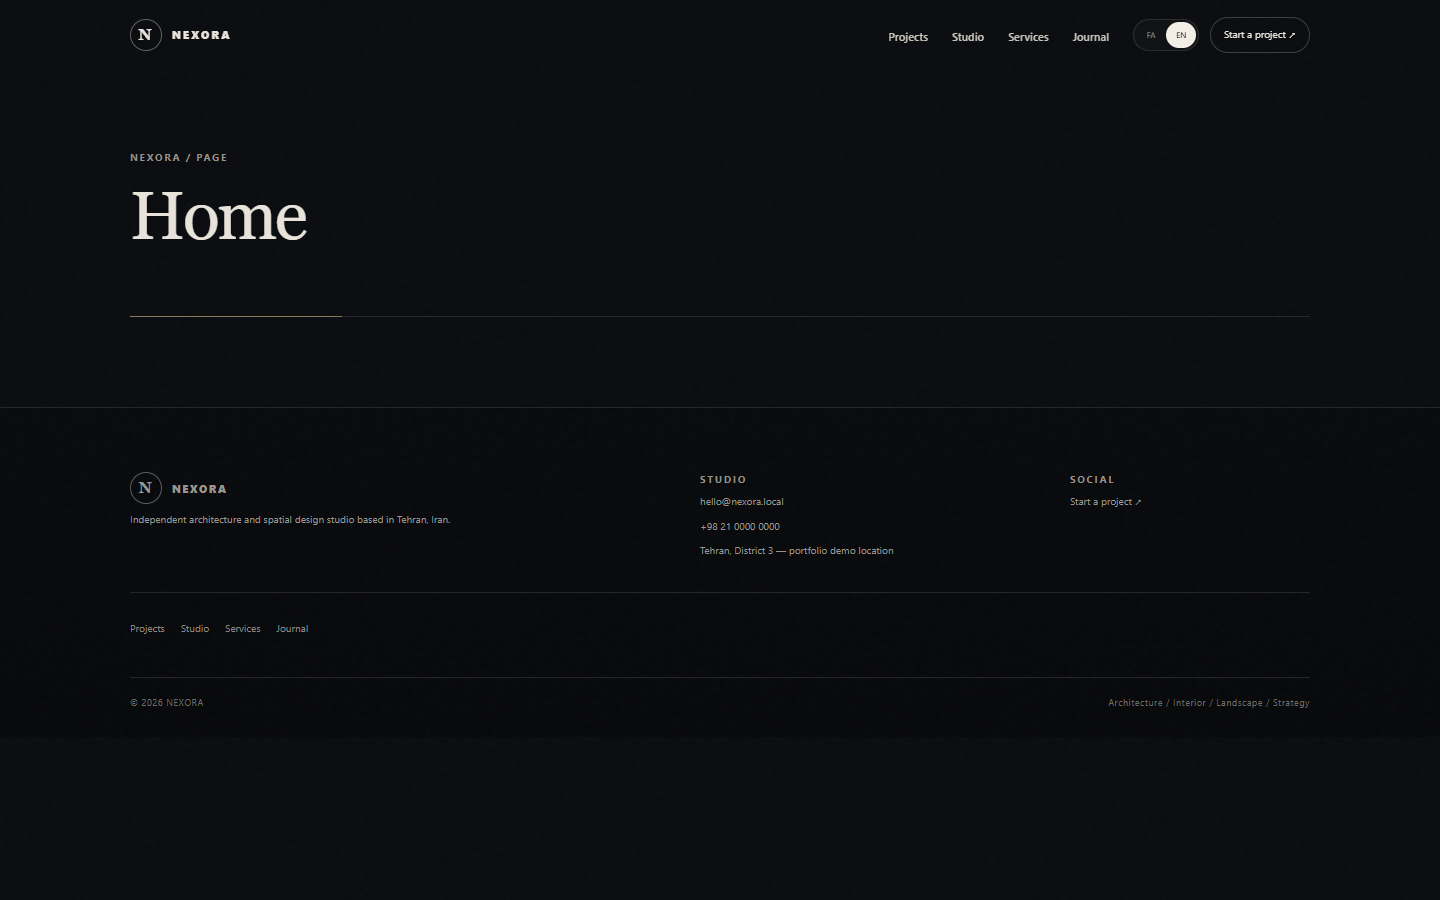
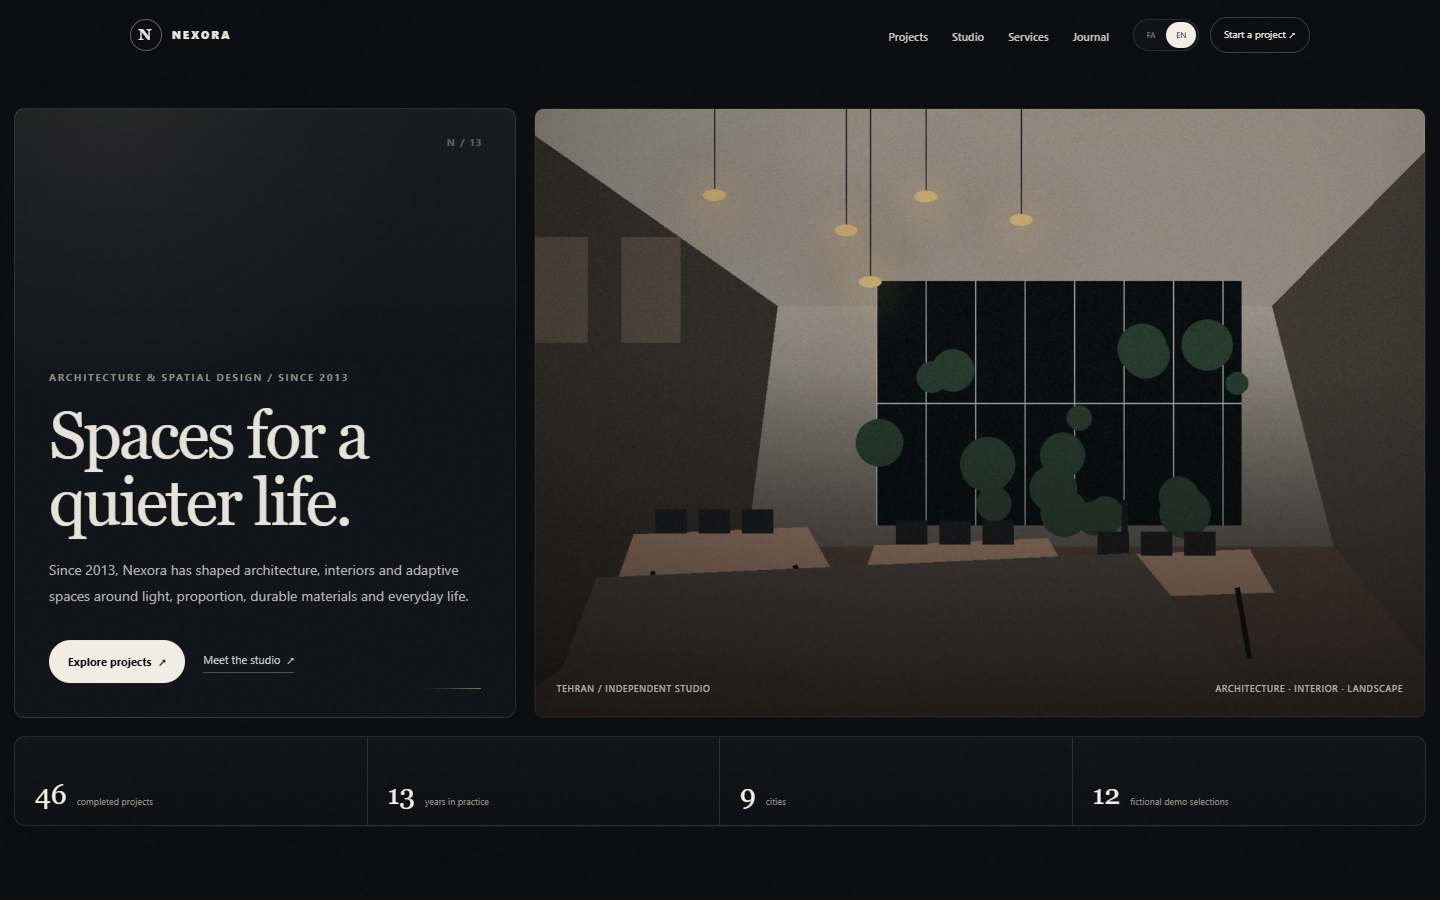
fix: improve GitHub previews and English home routing

diff --git a/scripts/showcase.js b/scripts/showcase.js
@@ -5,9 +5,9 @@ const chrome = 'C:\\Program Files\\Google\\Chrome\\Application\\chrome.exe';
 const base = 'http://localhost/nexora/';
 const pages = [
   ['fa-home-desktop.png', '?page_id=202', { width: 1440, height: 900 }],
-  ['en-home-desktop.png', '?page_id=203', { width: 1440, height: 900 }],
+  ['en-home-desktop.png', '?page_id=203&lang=en', { width: 1440, height: 900 }],
   ['fa-home-mobile.png', '?page_id=202', { width: 390, height: 844 }],
-  ['en-home-mobile.png', '?page_id=203', { width: 390, height: 844 }],
+  ['en-home-mobile.png', '?page_id=203&lang=en', { width: 390, height: 844 }],
   ['projects-archive.png', '?post_type=nexora_project', { width: 1440, height: 900 }],
   ['project-case-study.png', '?nexora_project=silent-courtyard-house', { width: 1440, height: 900 }],
   ['studio.png', '?page_id=204', { width: 1440, height: 900 }],

diff --git a/wp-content/themes/nexora/functions.php b/wp-content/themes/nexora/functions.php
@@ -91,7 +91,7 @@ function nexora_next_project($id){
     $next_id=$index===false?$ids[0]:$ids[($index+1)%count($ids)];
     return get_post($next_id)?:null;
 }
-function nexora_demo_page_template($template){if(!is_page())return $template;$pages=get_option('nexora_demo_pages',get_option('nexora_demo_pages_v3',get_option('nexora_demo_pages_v2',[])));$id=get_queried_object_id();foreach(['about'=>'page-about.php','contact'=>'page-contact.php'] as $key=>$file){$base=(int)($pages[$key]['fa']??0);$ids=[$base];if($base&&function_exists('pll_get_post')){$translated=(int)pll_get_post($base,nexora_lang());if($translated)$ids[]=$translated;}if(in_array($id,$ids,true)&&file_exists(get_template_directory().'/'.$file))return get_template_directory().'/'.$file;}return $template;}add_filter('template_include','nexora_demo_page_template',20);
+function nexora_demo_page_template($template){if(!is_page())return $template;$pages=get_option('nexora_demo_pages',get_option('nexora_demo_pages_v3',get_option('nexora_demo_pages_v2',[])));$id=get_queried_object_id();foreach(['home'=>'front-page.php','about'=>'page-about.php','contact'=>'page-contact.php'] as $key=>$file){$base=(int)($pages[$key]['fa']??0);$ids=[$base];if($base&&function_exists('pll_get_post')){$translated=(int)pll_get_post($base,nexora_lang());if($translated)$ids[]=$translated;}if(in_array($id,$ids,true)&&file_exists(get_template_directory().'/'.$file))return get_template_directory().'/'.$file;}return $template;}add_filter('template_include','nexora_demo_page_template',20);
 function nexora_main_queries($q){if(is_admin()||!$q->is_main_query())return;if($q->is_post_type_archive('nexora_project'))$q->set('posts_per_page',24);if($q->is_post_type_archive('nexora_service')){$q->set('posts_per_page',12);$q->set('orderby','menu_order');$q->set('order','ASC');}if($q->is_search()){$q->set('post_type',['nexora_project','nexora_service','post']);$q->set('posts_per_page',12);}}add_action('pre_get_posts','nexora_main_queries');
 function nexora_core_missing_notice(){if(!current_user_can('manage_options')||function_exists('nexora_core_brand'))return;echo '<div class="notice notice-warning"><p><strong>Nexora:</strong> '.esc_html(nexora_b('برای پروژهها، دمو، فرم و پنل مدیریت افزونه Nexora Core را فعال کنید.','Activate Nexora Core for projects, demo content, forms and the management dashboard.')).'</p></div>';}add_action('admin_notices','nexora_core_missing_notice');
 function nexora_image_alt($context='image',$index=0,$post_id=0){$post_id=$post_id?:get_the_ID();$title=get_the_title($post_id);$labels=['hero'=>['fa'=>'نمای اصلی','en'=>'main view'],'gallery'=>['fa'=>'نمای گالری','en'=>'gallery view'],'plan'=>['fa'=>'پلان مفهومی','en'=>'concept plan'],'before'=>['fa'=>'پیش از بازسازی','en'=>'before renovation'],'after'=>['fa'=>'پس از بازسازی','en'=>'after renovation']];$label=$labels[$context][nexora_lang()]??($context==='image'?nexora_b('تصویر','image'):$context);if($index)$label.=' '.(int)$index;return trim($title.' — '.$label);}

diff --git a/README.fa.md b/README.fa.md
@@ -15,31 +15,21 @@
 
 ## پیشنمایش طراحی
 
-### English
+### صفحهٔ اصلی انگلیسی
 
-| Desktop | Mobile |
-| --- | --- |
-| ![NEXORA English desktop homepage](docs/showcase/en-home-desktop.png) | ![NEXORA English mobile homepage](docs/showcase/en-home-mobile.png) |
+<p align="center"><img src="docs/showcase/en-home-desktop.png" alt="NEXORA English desktop homepage" width="100%"></p>
+<p align="center"><img src="docs/showcase/en-home-mobile.png" alt="NEXORA English mobile homepage" width="320"></p>
 
-### فارسی
+### صفحهٔ اصلی فارسی
 
-| دسکتاپ | موبایل |
-| --- | --- |
-| ![صفحه اصلی فارسی NEXORA در دسکتاپ](docs/showcase/fa-home-desktop.png) | ![صفحه اصلی فارسی NEXORA در موبایل](docs/showcase/fa-home-mobile.png) |
+<p align="center"><img src="docs/showcase/fa-home-desktop.png" alt="صفحه اصلی فارسی NEXORA در دسکتاپ" width="100%"></p>
+<p align="center"><img src="docs/showcase/fa-home-mobile.png" alt="صفحه اصلی فارسی NEXORA در موبایل" width="320"></p>
 
 ## بخشهای منتخب
 
-| پروژهها | Case Study |
-| --- | --- |
-| ![آرشیو پروژهها](docs/showcase/projects-archive.png) | ![Case Study پروژه](docs/showcase/project-case-study.png) |
-
-| استودیو | تماس |
-| --- | --- |
-| ![استودیو](docs/showcase/studio.png) | ![تماس](docs/showcase/contact.png) |
-
-| منوی موبایل | قبل / بعد |
-| --- | --- |
-| ![منوی موبایل](docs/showcase/mobile-navigation.png) | ![قبل و بعد](docs/showcase/before-after.png) |
+<p align="center"><img src="docs/showcase/projects-archive.png" alt="آرشیو پروژهها" width="100%"></p>
+<p align="center"><img src="docs/showcase/studio.png" alt="صفحه استودیو" width="100%"></p>
+<p align="center"><img src="docs/showcase/mobile-navigation.png" alt="منوی موبایل RTL" width="320"></p>
 
 ## ساختار پروژه
 

diff --git a/README.md b/README.md
@@ -15,31 +15,21 @@
 
 ## Live design preview
 
-### English
+### English home
 
-| Desktop | Mobile |
-| --- | --- |
-| ![NEXORA English desktop homepage](docs/showcase/en-home-desktop.png) | ![NEXORA English mobile homepage](docs/showcase/en-home-mobile.png) |
+<p align="center"><img src="docs/showcase/en-home-desktop.png" alt="NEXORA English desktop homepage" width="100%"></p>
+<p align="center"><img src="docs/showcase/en-home-mobile.png" alt="NEXORA English mobile homepage" width="320"></p>
 
-### فارسی
+### صفحهٔ اصلی فارسی
 
-| دسکتاپ | موبایل |
-| --- | --- |
-| ![صفحه اصلی فارسی NEXORA در دسکتاپ](docs/showcase/fa-home-desktop.png) | ![صفحه اصلی فارسی NEXORA در موبایل](docs/showcase/fa-home-mobile.png) |
+<p align="center"><img src="docs/showcase/fa-home-desktop.png" alt="صفحه اصلی فارسی NEXORA در دسکتاپ" width="100%"></p>
+<p align="center"><img src="docs/showcase/fa-home-mobile.png" alt="صفحه اصلی فارسی NEXORA در موبایل" width="320"></p>
 
 ## Selected screens
 
-| Projects | Case study |
-| --- | --- |
-| ![Projects archive](docs/showcase/projects-archive.png) | ![Project case study](docs/showcase/project-case-study.png) |
-
-| Studio | Contact |
-| --- | --- |
-| ![Studio](docs/showcase/studio.png) | ![Contact](docs/showcase/contact.png) |
-
-| Mobile navigation | Before / After |
-| --- | --- |
-| ![Mobile navigation](docs/showcase/mobile-navigation.png) | ![Before and after](docs/showcase/before-after.png) |
+<p align="center"><img src="docs/showcase/projects-archive.png" alt="Projects archive" width="100%"></p>
+<p align="center"><img src="docs/showcase/studio.png" alt="NEXORA studio page" width="100%"></p>
+<p align="center"><img src="docs/showcase/mobile-navigation.png" alt="RTL mobile navigation" width="320"></p>
 
 ## Project structure
 
